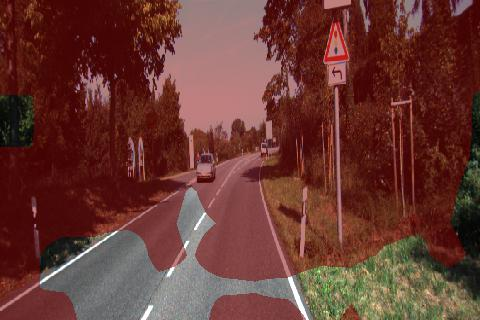
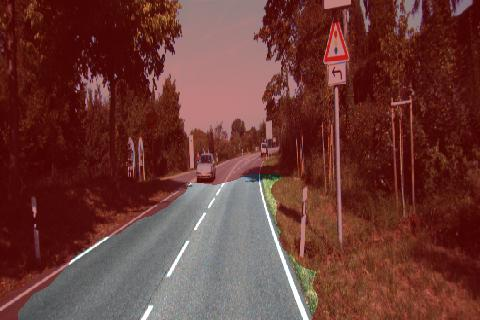
pretrained mobilenet fcn8s

Changed region(s): [[0.25, 0.2812, 1.0, 1.0], [0.0312, 0.7188, 0.25, 1.0], [0.0, 0.2812, 0.0938, 0.4688]]

diff --git a/infer.py b/infer.py
@@ -18,7 +18,7 @@ IMAGE_DIM = [320, 480]
 
 NET_PROTO = 'deploy.prototxt'
 # WEIGHTS = 'fcn-alexnet-pascal.caffemodel'
-WEIGHTS = 'snapshot/mobilenet_32/solver_iter_2000.caffemodel'
+WEIGHTS = 'snapshot/mobilenet_32/solver_iter_38000.caffemodel'
 # WEIGHTS = 'weight_pretrained/bvlc_googlenet.caffemodel'
 
 
